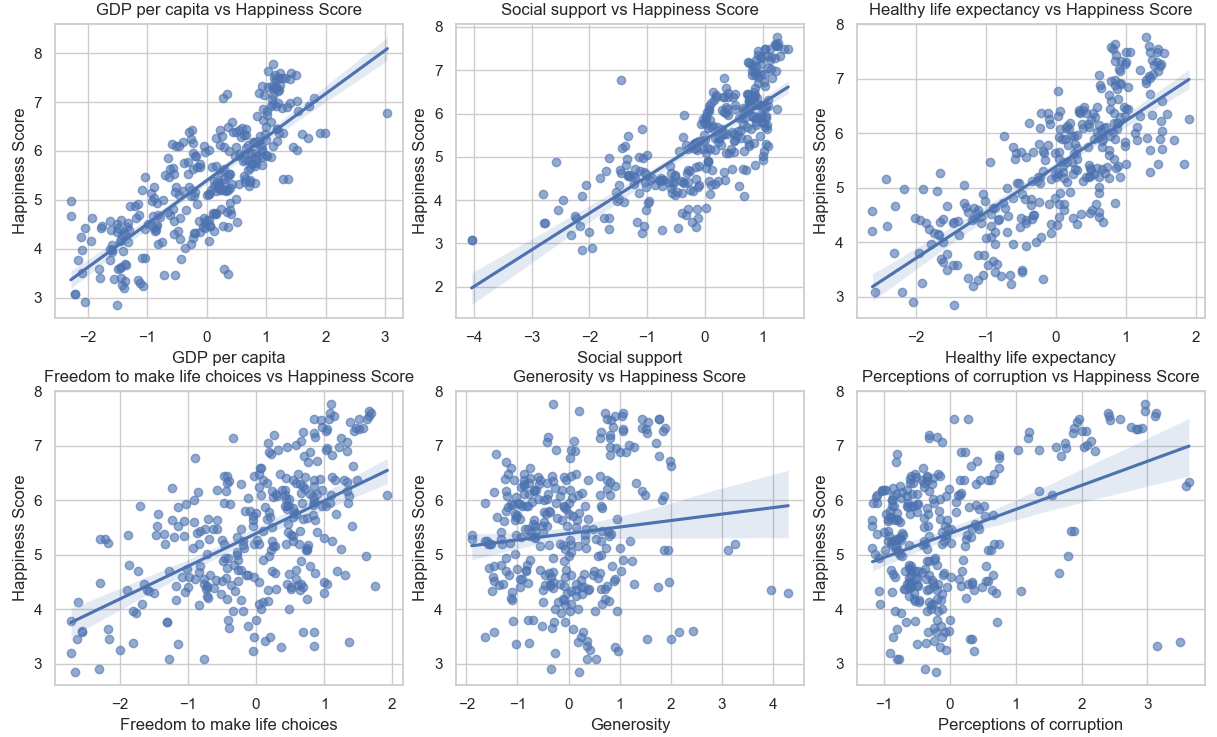
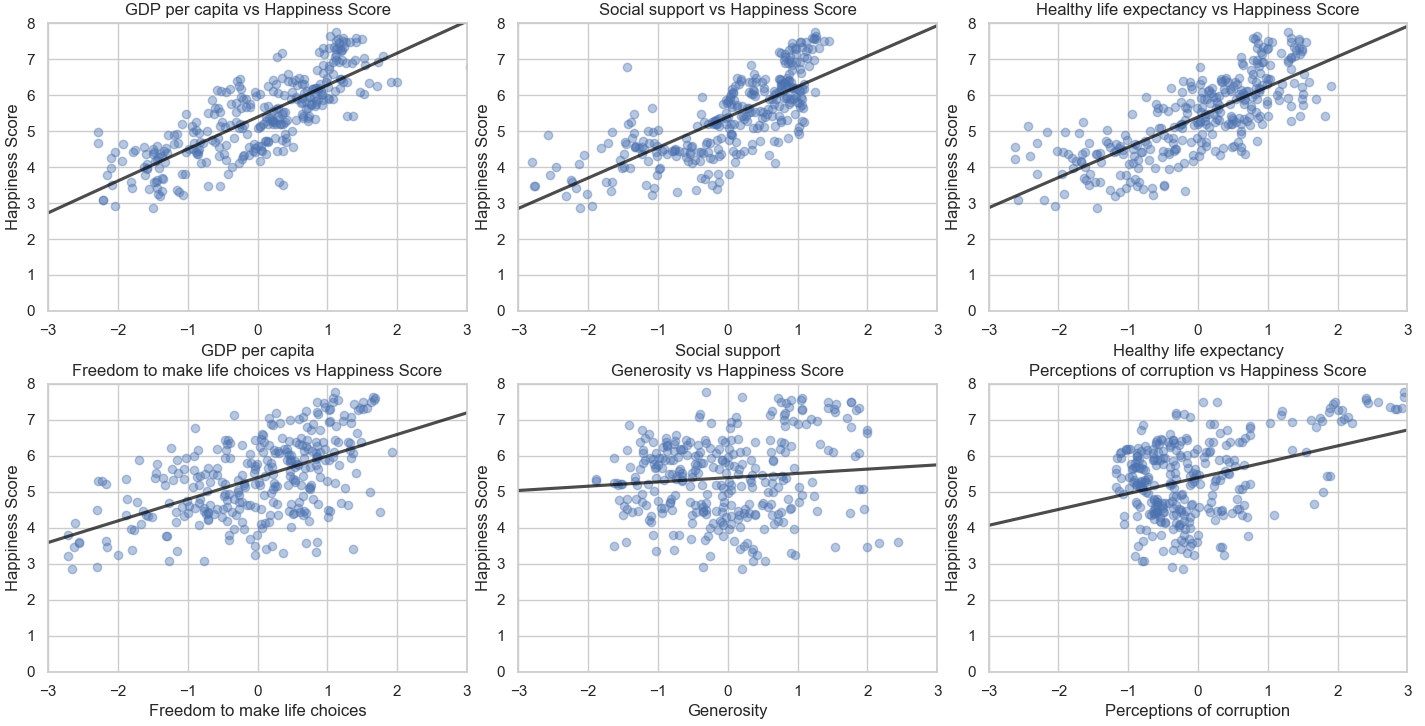
update styling of scatterplot

diff --git a/scatterplots.py b/scatterplots.py
@@ -23,7 +23,16 @@ sns.set(style="whitegrid")
 # Create scatter plots with linear trend lines
 for i, feature in enumerate(features, 1):
     plt.subplot(2, 3, i)
-    sns.regplot(data=df, x=feature, y="Score", scatter_kws={'alpha': 0.6})
+    plt.xlim(-3, 3)
+    plt.ylim(0, 8)
+    sns.regplot(data=df,
+                x=feature,
+                y="Score",
+                scatter_kws={'alpha': 0.4},
+                line_kws={'color': 'black', 'alpha': 0.7},
+                ci=None,
+                truncate=False
+                )
     plt.title(f"{feature} vs Happiness Score")
     plt.xlabel(feature)
     plt.ylabel("Happiness Score")
